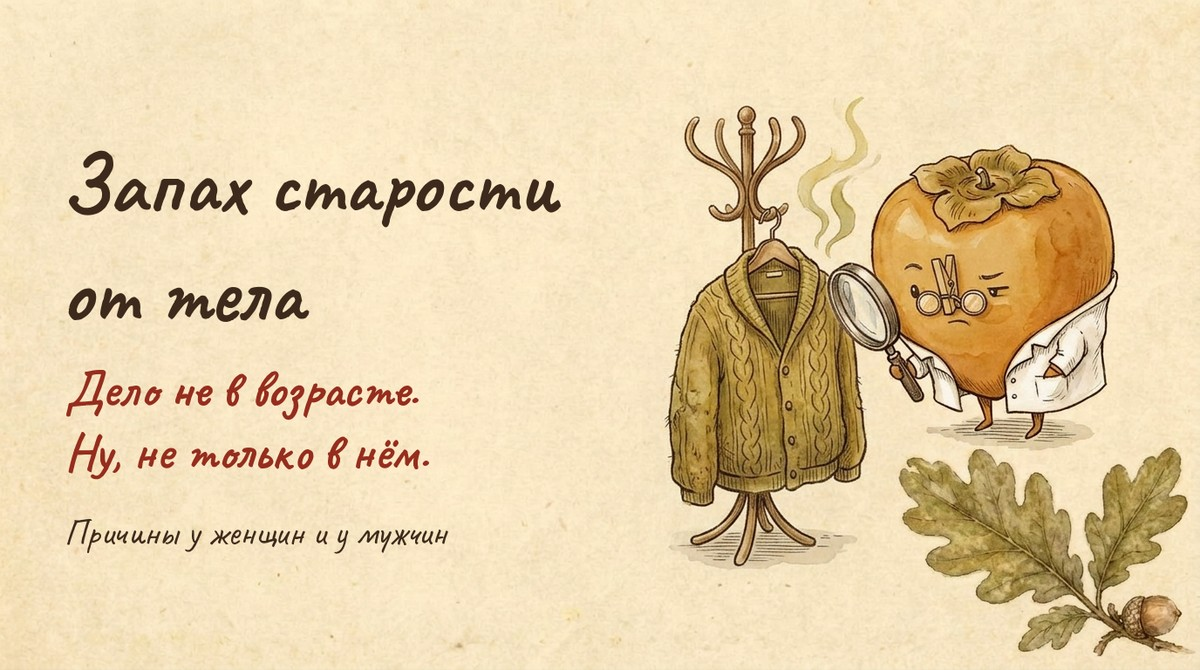
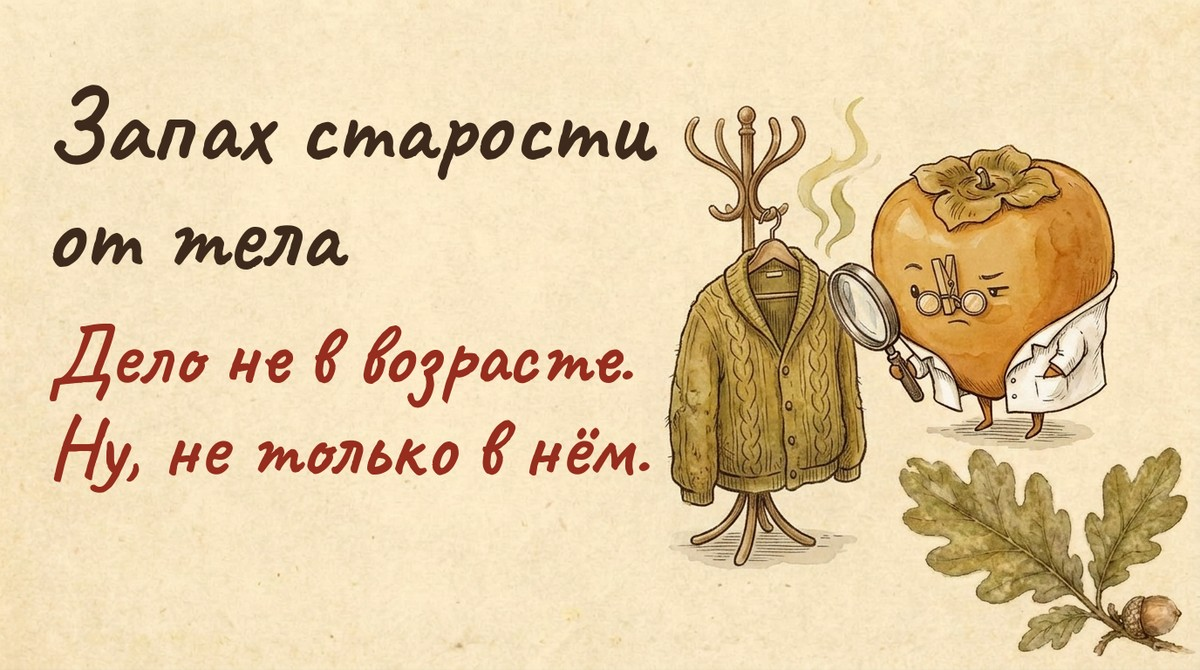
Дзен статья 2: в конце ссылки на 3 подходящие страницы; крупный текст на обложке

Changed region(s): [[0.0308, 0.1194, 0.555, 0.7463], [0.0617, 0.7761, 0.37, 0.8358]]

diff --git a/03-сайт/дзен/statya-2_zapah-ot-tela.md b/03-сайт/дзен/statya-2_zapah-ot-tela.md
@@ -1,6 +1,6 @@
 # Дзен — статья 2 «Запах старости от тела: причины» (06.10.2026)
 
-Основа: черновик сайта `03-сайт/черновики/zapah-starosti-ot-tela-prichiny.md` (ждёт медицинской проверки). Текст переработан, без бренда, одна ссылка.
+Основа: черновик сайта `03-сайт/черновики/zapah-starosti-ot-tela-prichiny.md` (ждёт медицинской проверки). Текст переработан, без бренда. В конце — ссылки на 2–3 подходящие страницы сайта (решение автора 06.10: не отправлять всех на 2-ноненаль).
 Обложка — `03-сайт/дзен/images/oblozhka-zapah-ot-tela.jpg` (доктор Хурма с прищепкой на носу изучает бабушкину кофту; «Дело не в возрасте. Ну, не только в нём»).
 
 ---
@@ -32,4 +32,7 @@
 
 ---
 
-Полная статья со всеми источниками сейчас на проверке. А пока познакомьтесь с тем, откуда вообще берётся запах старости: https://zapahstarosti.ru/chto-takoe-2-nonenal/
+Полная статья со всеми источниками сейчас на проверке. А пока — что уже есть на сайте:
+• Какой запах — повод идти к врачу: https://zapahstarosti.ru/kogda-k-vrachu/
+• Какие лекарства меняют запах тела: https://zapahstarosti.ru/lekarstva-i-zapah/
+• Как сказать близкому о запахе и не обидеть: https://zapahstarosti.ru/kak-pogovorit-s-blizkim/
